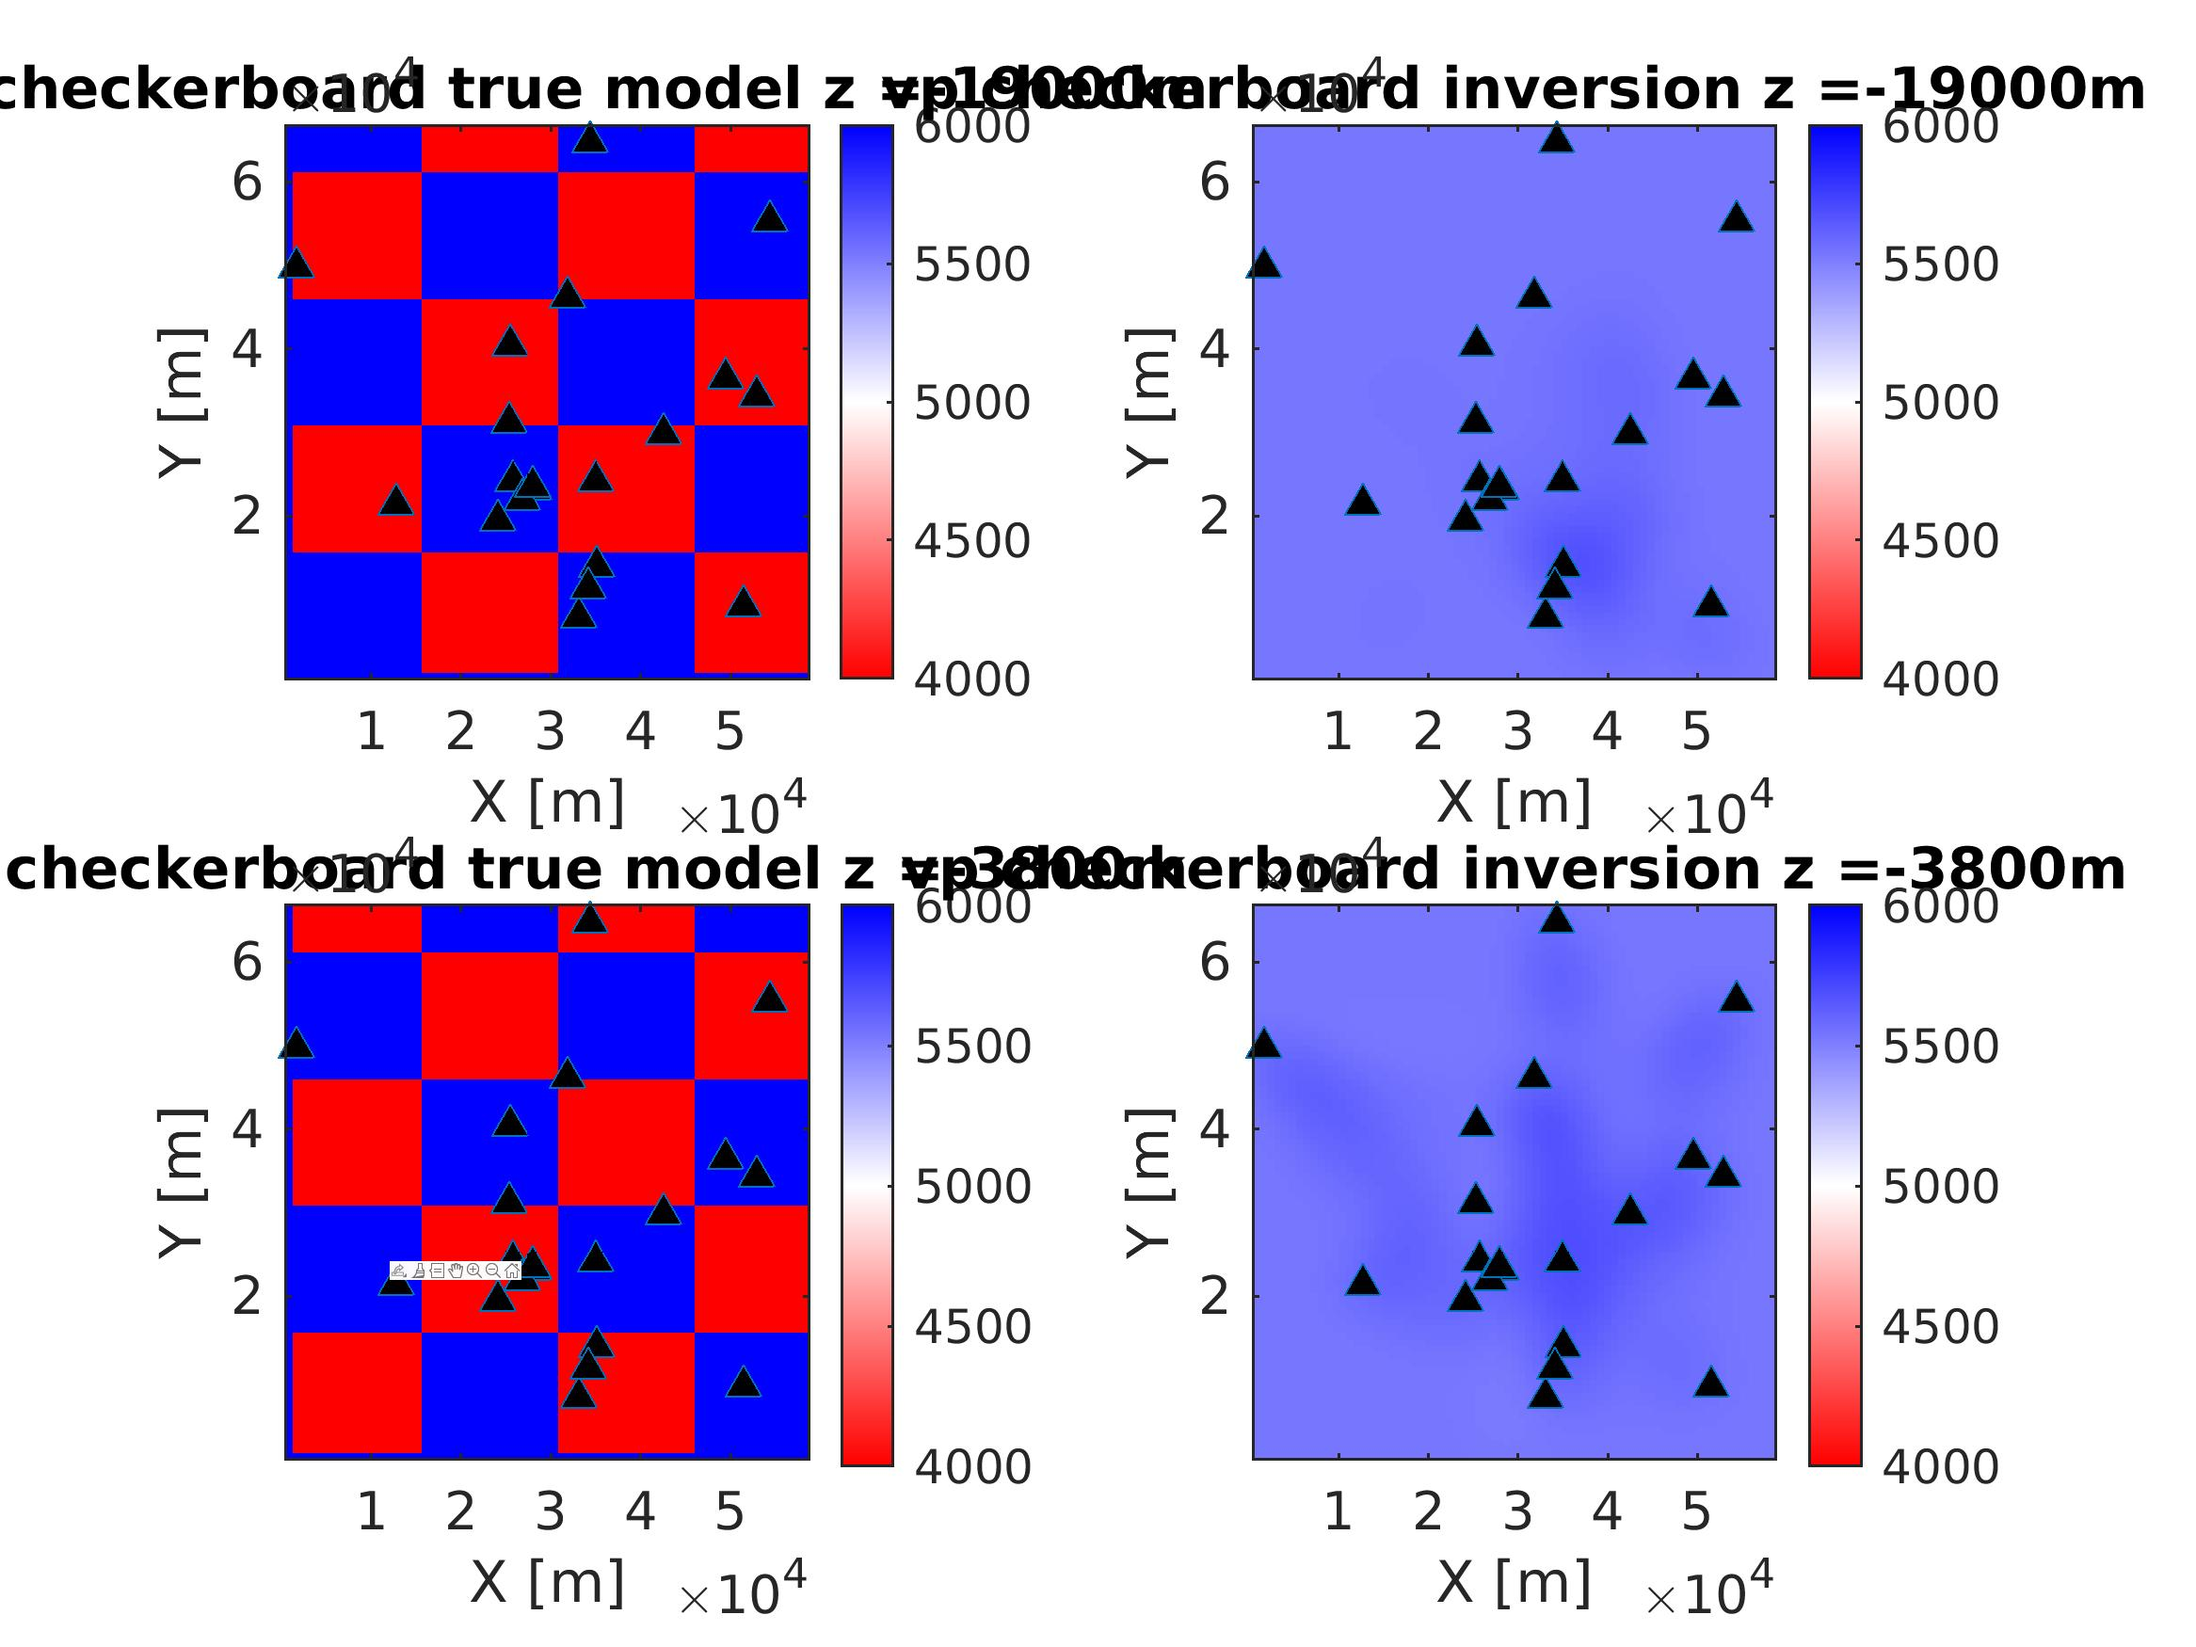
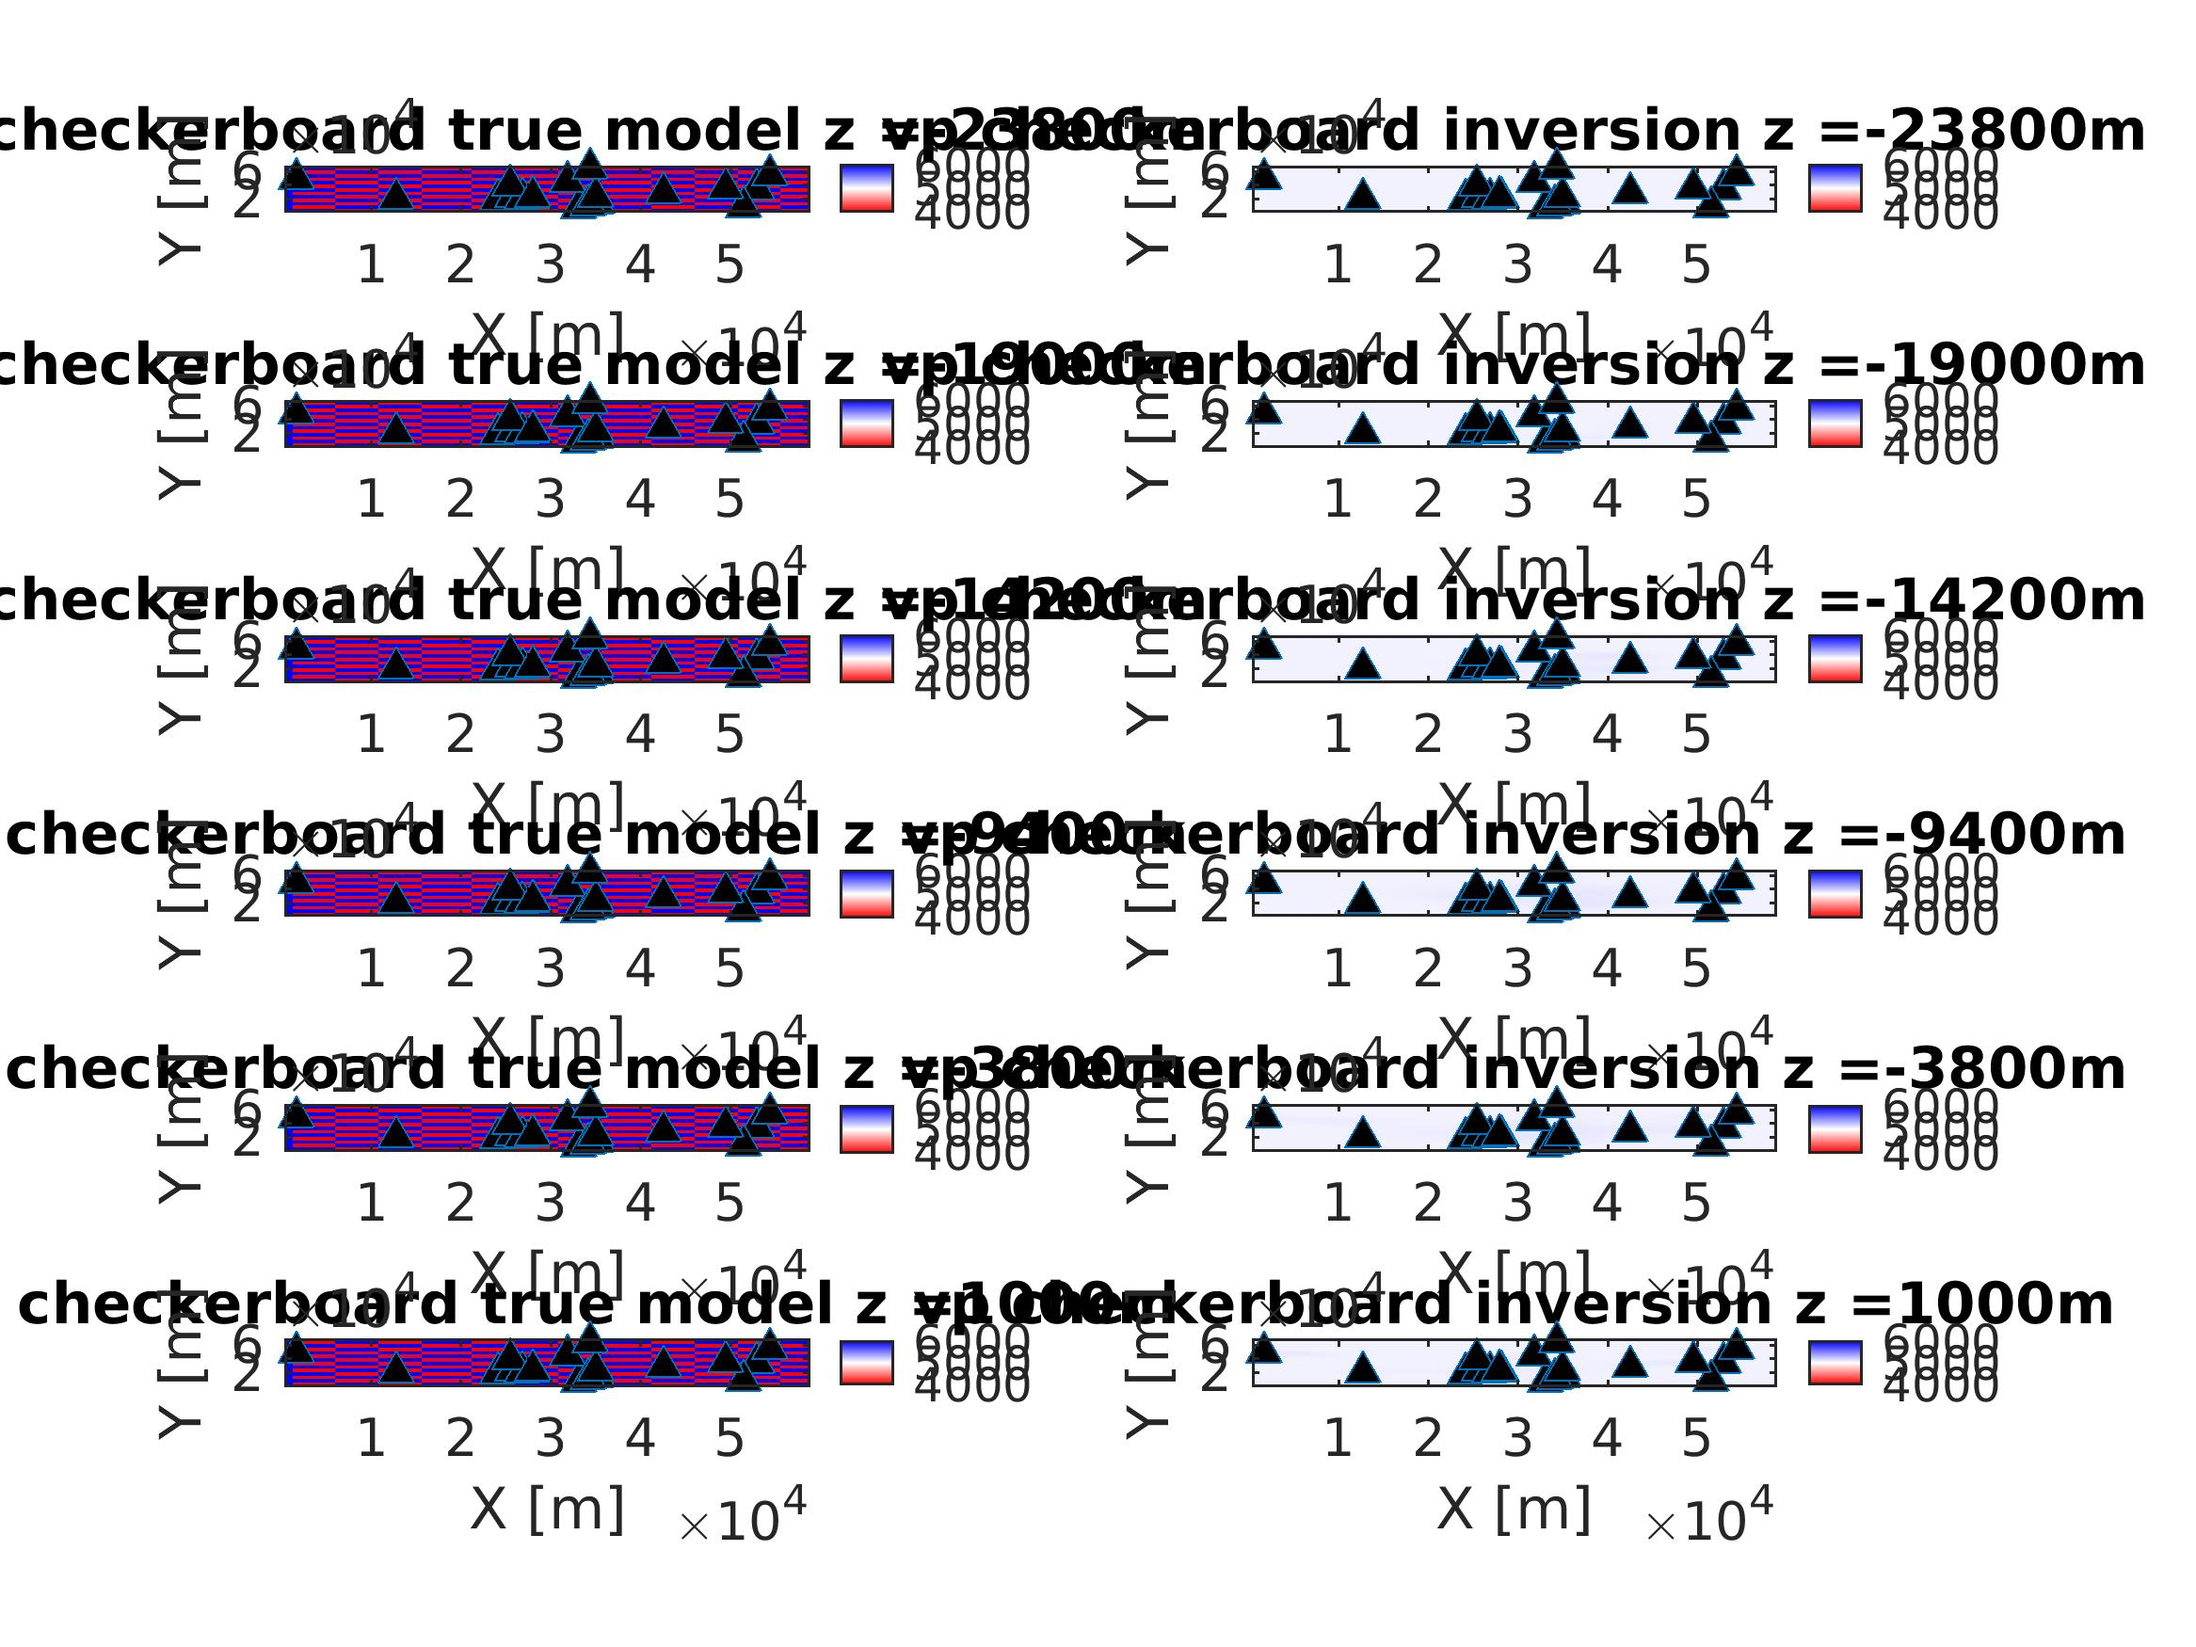
8

diff --git a/example/tutorial_alternating_inversion_Crati/create_figure_for_checkerboard.m b/example/tutorial_alternating_inversion_Crati/create_figure_for_checkerboard.m
@@ -28,12 +28,12 @@ source=load('source_overview.csv');
 [nx,ny,nz]=size(X);
 
 % type the edge length of the block
-half_period=15000;
+edge_length=5000;
 %
 mx=[];
 n=0;
 while 1
-    tt=floor(((.5+n)*half_period)/h);
+    tt=floor(((.5+n)*edge_length)/h);
     if tt>=nx
         break;
     end
@@ -44,7 +44,7 @@ end
 my=[];
 n=0;
 while 1
-    tt=floor(((.5+n)*half_period)/h);
+    tt=floor(((.5+n)*edge_length)/h);
     if tt>=ny
         break;
     end
@@ -55,7 +55,7 @@ end
 mz=[];
 n=0;
 while 1
-    tt=floor(((.5+n)*half_period)/h);
+    tt=floor(((.5+n)*edge_length)/h);
     if tt>=nz
         break;
     end
